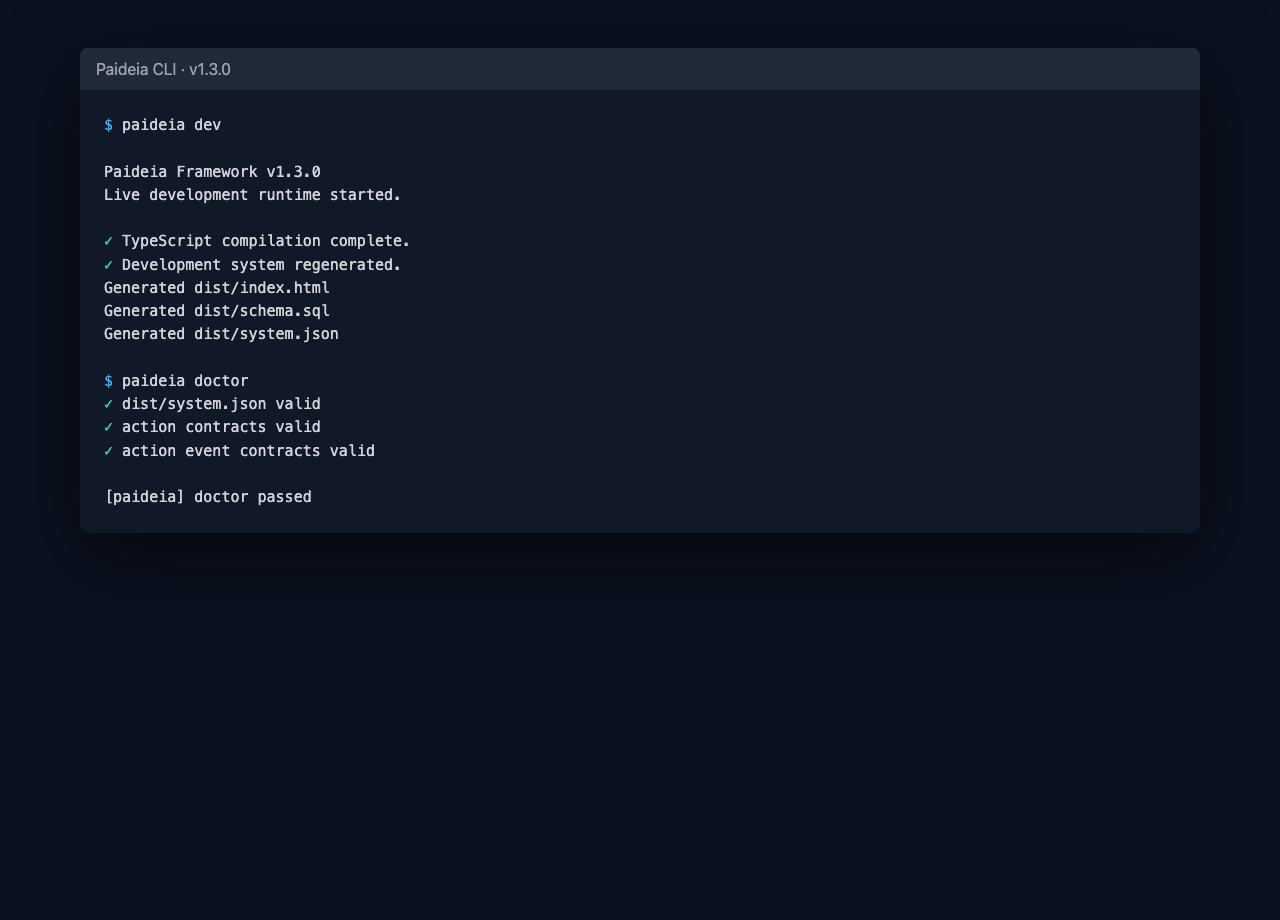
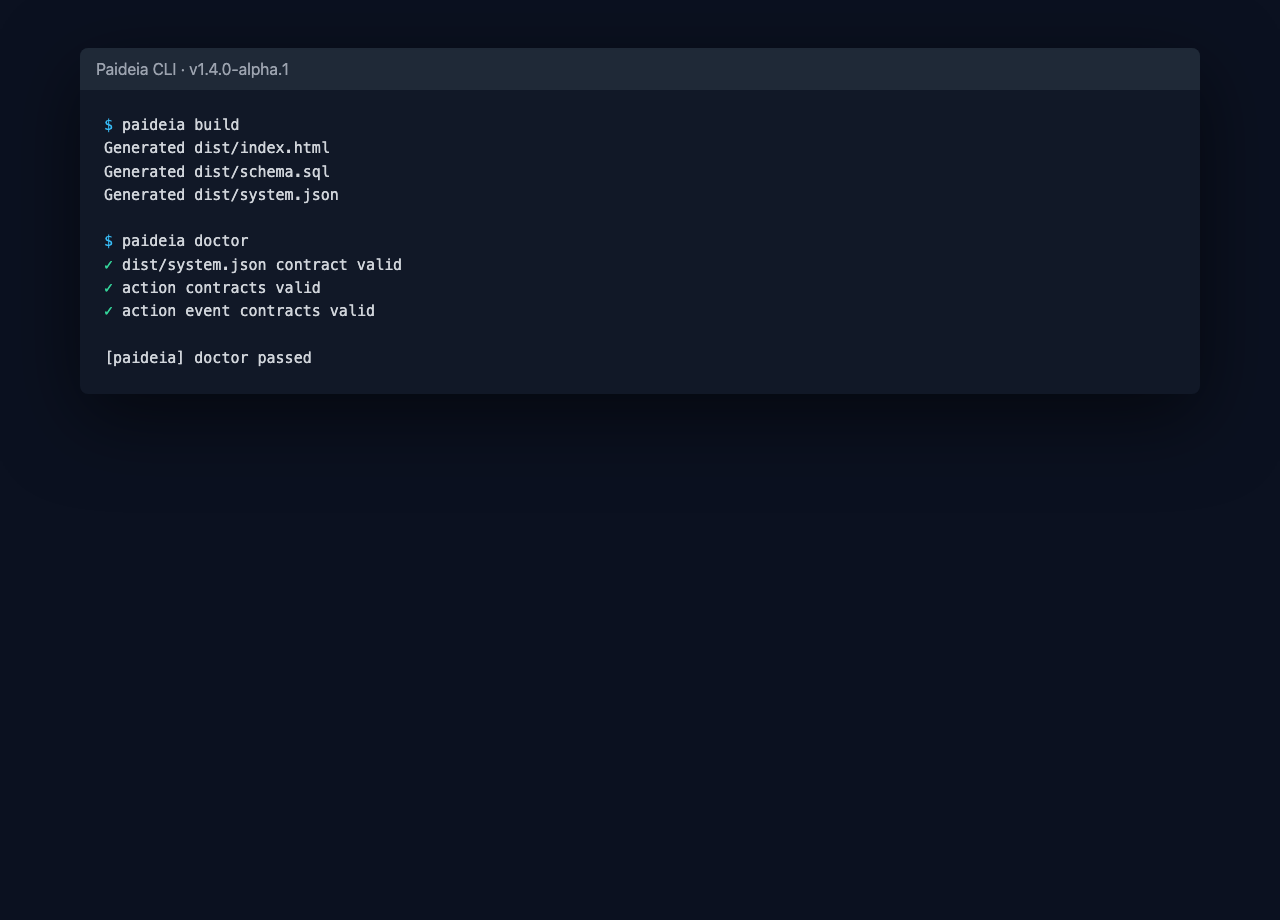
Add manifest contract validator

Changed region(s): [[0.0625, 0.1217, 0.3125, 0.5478], [0.1562, 0.0609, 0.2188, 0.0913]]

diff --git a/dist/index.html b/dist/index.html
@@ -388,7 +388,7 @@
           <h1>Paideia Framework</h1>
         </div>
 
-        <p class="version">v1.3.0</p>
+        <p class="version">v1.4.0-alpha.1</p>
       </header>
 
       <section class="intro">

diff --git a/README.md b/README.md
@@ -4,11 +4,11 @@ Inspectable AI-native application runtime framework.
 
 Describe the system. Generate the software. Keep it understandable.
 
-Status: `v1.3.0`
+Status: `v1.4.0-alpha.1`
 
 Paideia starts from a resource declaration and generates a small, inspectable application foundation around it: UI, validation, local persistence, permissions, actions, AI capability contracts, SQL schema, runtime events, and a manifest that explains what was generated.
 
-`v1.3.0` freezes the first serious contract line:
+`v1.3.0` froze the first serious contract line:
 
 ```txt
 Actions are explicit, inspectable, diagnosable runtime contracts.
@@ -16,11 +16,9 @@ Actions are explicit, inspectable, diagnosable runtime contracts.
 
 That means actions are not just buttons in generated UI. They are declared in `dist/system.json`, rendered by `paideia explain`, validated by `paideia doctor`, and emitted as structured runtime events.
 
-## Screenshots
+`v1.4.0-alpha.1` starts the manifest-first runtime foundation by validating `dist/system.json` as a runtime contract, not merely readable JSON.
 
-| Release cover |
-| --- |
-| ![Paideia v1.3.0 release cover](screenshots/release-cover-v1.3.0.png) |
+## Screenshots
 
 | Generated runtime | Development CLI |
 | --- | --- |
@@ -579,6 +577,7 @@ Paideia language / AI contract generation
 Future milestones:
 
 - `v1.4`: manifest-first runtime foundation
+- `v1.4.0-alpha.1`: manifest contract validation
 - `v1.5`: working API routes from the manifested API contract
 - `v1.6`: AI provider adapters with audit logs
 - `v2`: deeper runtime, compiler, and language direction
